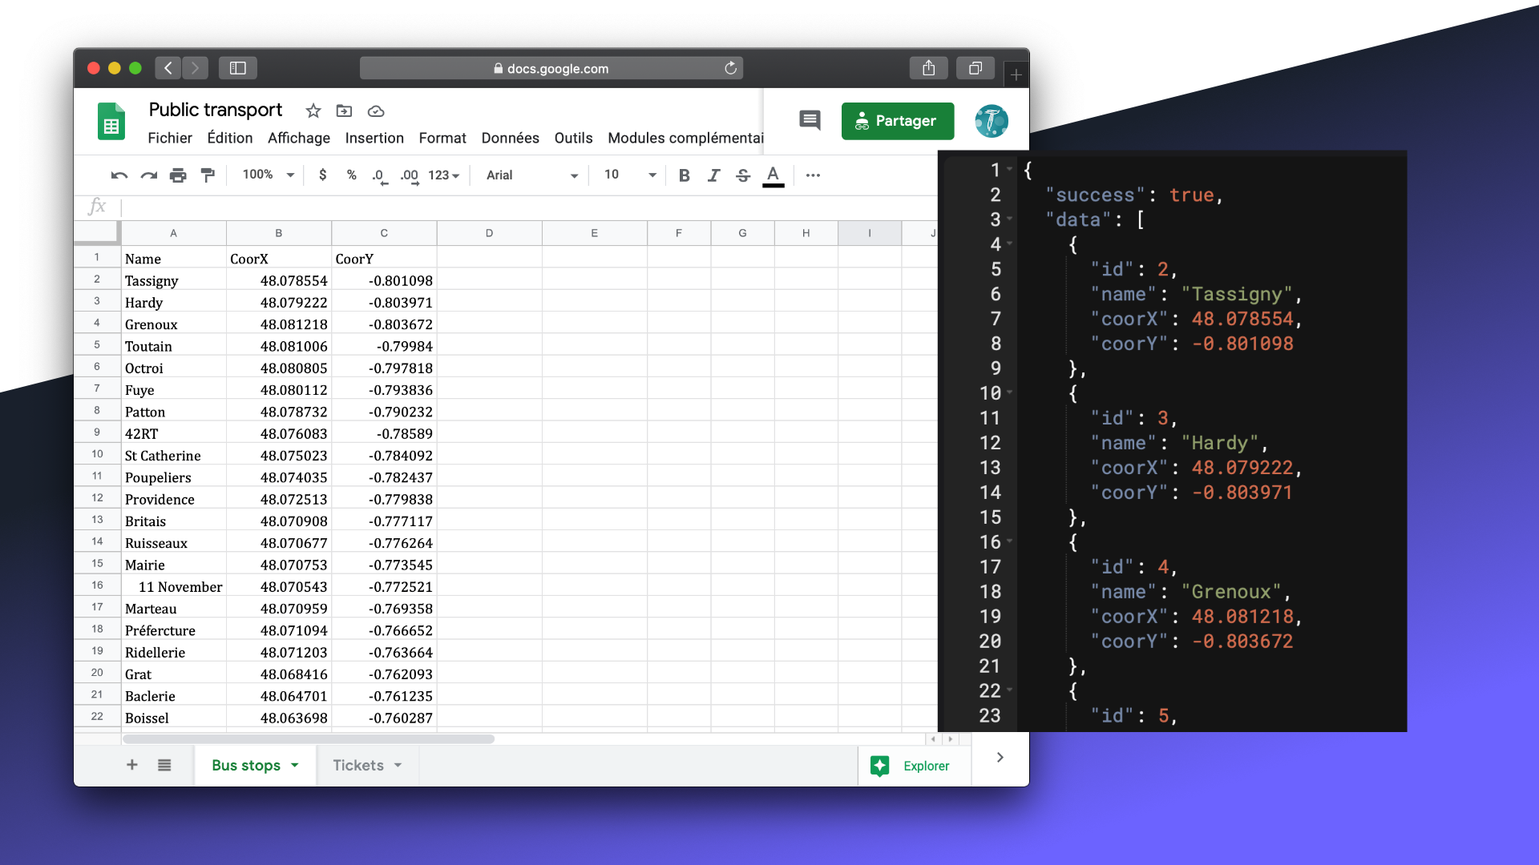
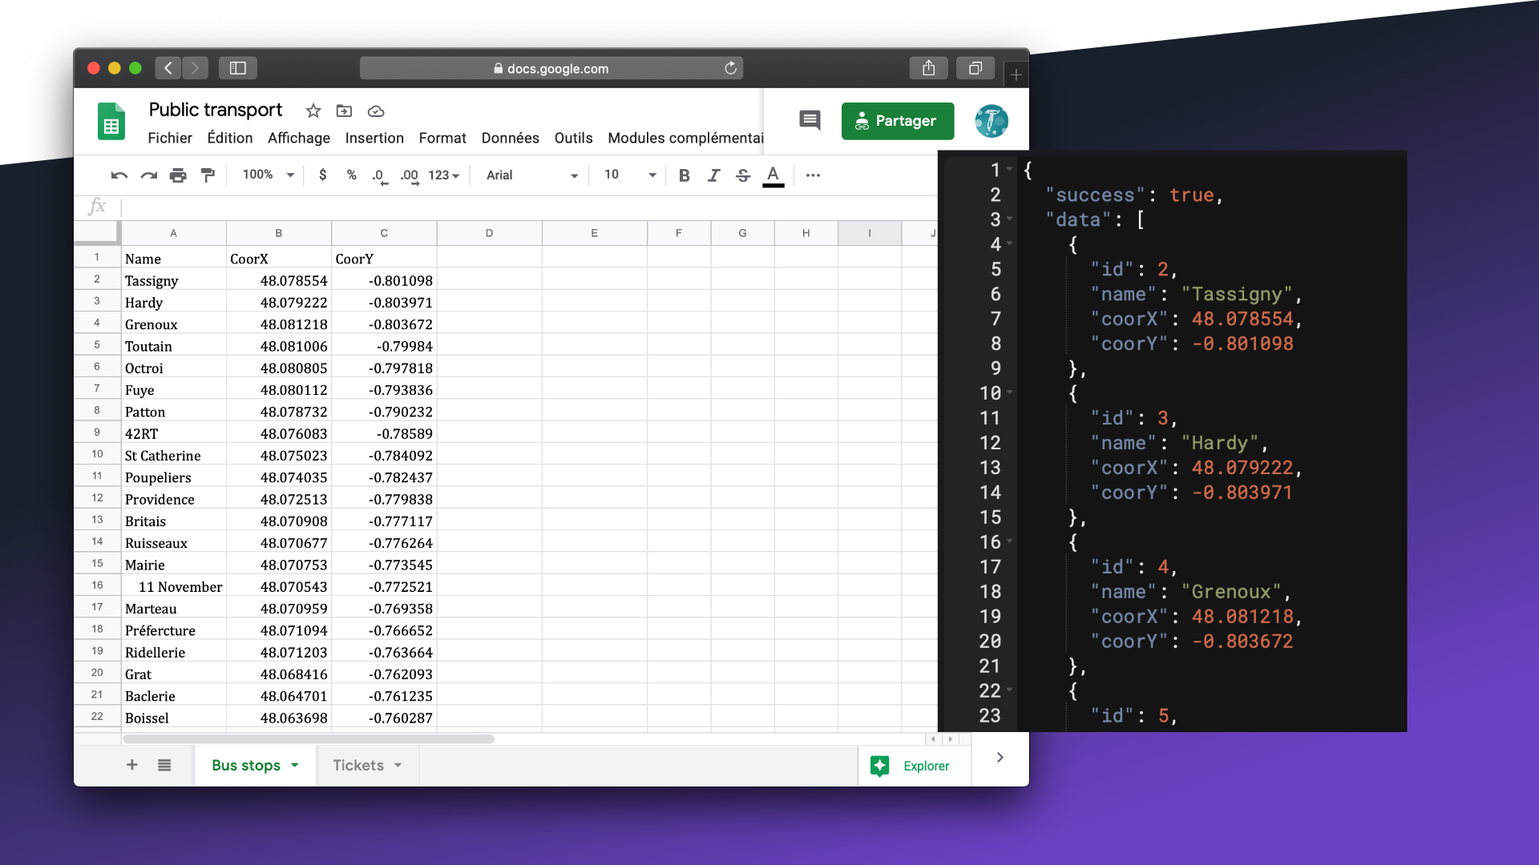
update homepage

Changed region(s): [[0.0, 0.3056, 1.0, 1.0], [0.6562, 0.0, 1.0, 0.1528], [0.0, 0.1833, 0.0625, 0.4583]]

diff --git a/src/public/js/particles.min.js b/src/public/js/particles.min.js
@@ -1,0 +1,9 @@
+/* -----------------------------------------------
+/* Author : Vincent Garreau  - vincentgarreau.com
+/* MIT license: http://opensource.org/licenses/MIT
+/* Demo / Generator : vincentgarreau.com/particles.js
+/* GitHub : github.com/VincentGarreau/particles.js
+/* How to use? : Check the GitHub README
+/* v2.0.0
+/* ----------------------------------------------- */
+function hexToRgb(e){var a=/^#?([a-f\d])([a-f\d])([a-f\d])$/i;e=e.replace(a,function(e,a,t,i){return a+a+t+t+i+i});var t=/^#?([a-f\d]{2})([a-f\d]{2})([a-f\d]{2})$/i.exec(e);return t?{r:parseInt(t[1],16),g:parseInt(t[2],16),b:parseInt(t[3],16)}:null}function clamp(e,a,t){return Math.min(Math.max(e,a),t)}function isInArray(e,a){return a.indexOf(e)>-1}var pJS=function(e,a){var t=document.querySelector("#"+e+" > .particles-js-canvas-el");this.pJS={canvas:{el:t,w:t.offsetWidth,h:t.offsetHeight},particles:{number:{value:400,density:{enable:!0,value_area:800}},color:{value:"#fff"},shape:{type:"circle",stroke:{width:0,color:"#ff0000"},polygon:{nb_sides:5},image:{src:"",width:100,height:100}},opacity:{value:1,random:!1,anim:{enable:!1,speed:2,opacity_min:0,sync:!1}},size:{value:20,random:!1,anim:{enable:!1,speed:20,size_min:0,sync:!1}},line_linked:{enable:!0,distance:100,color:"#fff",opacity:1,width:1},move:{enable:!0,speed:2,direction:"none",random:!1,straight:!1,out_mode:"out",bounce:!1,attract:{enable:!1,rotateX:3e3,rotateY:3e3}},array:[]},interactivity:{detect_on:"canvas",events:{onhover:{enable:!0,mode:"grab"},onclick:{enable:!0,mode:"push"},resize:!0},modes:{grab:{distance:100,line_linked:{opacity:1}},bubble:{distance:200,size:80,duration:.4},repulse:{distance:200,duration:.4},push:{particles_nb:4},remove:{particles_nb:2}},mouse:{}},retina_detect:!1,fn:{interact:{},modes:{},vendors:{}},tmp:{}};var i=this.pJS;a&&Object.deepExtend(i,a),i.tmp.obj={size_value:i.particles.size.value,size_anim_speed:i.particles.size.anim.speed,move_speed:i.particles.move.speed,line_linked_distance:i.particles.line_linked.distance,line_linked_width:i.particles.line_linked.width,mode_grab_distance:i.interactivity.modes.grab.distance,mode_bubble_distance:i.interactivity.modes.bubble.distance,mode_bubble_size:i.interactivity.modes.bubble.size,mode_repulse_distance:i.interactivity.modes.repulse.distance},i.fn.retinaInit=function(){i.retina_detect&&window.devicePixelRatio>1?(i.canvas.pxratio=window.devicePixelRatio,i.tmp.retina=!0):(i.canvas.pxratio=1,i.tmp.retina=!1),i.canvas.w=i.canvas.el.offsetWidth*i.canvas.pxratio,i.canvas.h=i.canvas.el.offsetHeight*i.canvas.pxratio,i.particles.size.value=i.tmp.obj.size_value*i.canvas.pxratio,i.particles.size.anim.speed=i.tmp.obj.size_anim_speed*i.canvas.pxratio,i.particles.move.speed=i.tmp.obj.move_speed*i.canvas.pxratio,i.particles.line_linked.distance=i.tmp.obj.line_linked_distance*i.canvas.pxratio,i.interactivity.modes.grab.distance=i.tmp.obj.mode_grab_distance*i.canvas.pxratio,i.interactivity.modes.bubble.distance=i.tmp.obj.mode_bubble_distance*i.canvas.pxratio,i.particles.line_linked.width=i.tmp.obj.line_linked_width*i.canvas.pxratio,i.interactivity.modes.bubble.size=i.tmp.obj.mode_bubble_size*i.canvas.pxratio,i.interactivity.modes.repulse.distance=i.tmp.obj.mode_repulse_distance*i.canvas.pxratio},i.fn.canvasInit=function(){i.canvas.ctx=i.canvas.el.getContext("2d")},i.fn.canvasSize=function(){i.canvas.el.width=i.canvas.w,i.canvas.el.height=i.canvas.h,i&&i.interactivity.events.resize&&window.addEventListener("resize",function(){i.canvas.w=i.canvas.el.offsetWidth,i.canvas.h=i.canvas.el.offsetHeight,i.tmp.retina&&(i.canvas.w*=i.canvas.pxratio,i.canvas.h*=i.canvas.pxratio),i.canvas.el.width=i.canvas.w,i.canvas.el.height=i.canvas.h,i.particles.move.enable||(i.fn.particlesEmpty(),i.fn.particlesCreate(),i.fn.particlesDraw(),i.fn.vendors.densityAutoParticles()),i.fn.vendors.densityAutoParticles()})},i.fn.canvasPaint=function(){i.canvas.ctx.fillRect(0,0,i.canvas.w,i.canvas.h)},i.fn.canvasClear=function(){i.canvas.ctx.clearRect(0,0,i.canvas.w,i.canvas.h)},i.fn.particle=function(e,a,t){if(this.radius=(i.particles.size.random?Math.random():1)*i.particles.size.value,i.particles.size.anim.enable&&(this.size_status=!1,this.vs=i.particles.size.anim.speed/100,i.particles.size.anim.sync||(this.vs=this.vs*Math.random())),this.x=t?t.x:Math.random()*i.canvas.w,this.y=t?t.y:Math.random()*i.canvas.h,this.x>i.canvas.w-2*this.radius?this.x=this.x-this.radius:this.x<2*this.radius&&(this.x=this.x+this.radius),this.y>i.canvas.h-2*this.radius?this.y=this.y-this.radius:this.y<2*this.radius&&(this.y=this.y+this.radius),i.particles.move.bounce&&i.fn.vendors.checkOverlap(this,t),this.color={},"object"==typeof e.value)if(e.value instanceof Array){var s=e.value[Math.floor(Math.random()*i.particles.color.value.length)];this.color.rgb=hexToRgb(s)}else void 0!=e.value.r&&void 0!=e.value.g&&void 0!=e.value.b&&(this.color.rgb={r:e.value.r,g:e.value.g,b:e.value.b}),void 0!=e.value.h&&void 0!=e.value.s&&void 0!=e.value.l&&(this.color.hsl={h:e.value.h,s:e.value.s,l:e.value.l});else"random"==e.value?this.color.rgb={r:Math.floor(256*Math.random())+0,g:Math.floor(256*Math.random())+0,b:Math.floor(256*Math.random())+0}:"string"==typeof e.value&&(this.color=e,this.color.rgb=hexToRgb(this.color.value));this.opacity=(i.particles.opacity.random?Math.random():1)*i.particles.opacity.value,i.particles.opacity.anim.enable&&(this.opacity_status=!1,this.vo=i.particles.opacity.anim.speed/100,i.particles.opacity.anim.sync||(this.vo=this.vo*Math.random()));var n={};switch(i.particles.move.direction){case"top":n={x:0,y:-1};break;case"top-right":n={x:.5,y:-.5};break;case"right":n={x:1,y:-0};break;case"bottom-right":n={x:.5,y:.5};break;case"bottom":n={x:0,y:1};break;case"bottom-left":n={x:-.5,y:1};break;case"left":n={x:-1,y:0};break;case"top-left":n={x:-.5,y:-.5};break;default:n={x:0,y:0}}i.particles.move.straight?(this.vx=n.x,this.vy=n.y,i.particles.move.random&&(this.vx=this.vx*Math.random(),this.vy=this.vy*Math.random())):(this.vx=n.x+Math.random()-.5,this.vy=n.y+Math.random()-.5),this.vx_i=this.vx,this.vy_i=this.vy;var r=i.particles.shape.type;if("object"==typeof r){if(r instanceof Array){var c=r[Math.floor(Math.random()*r.length)];this.shape=c}}else this.shape=r;if("image"==this.shape){var o=i.particles.shape;this.img={src:o.image.src,ratio:o.image.width/o.image.height},this.img.ratio||(this.img.ratio=1),"svg"==i.tmp.img_type&&void 0!=i.tmp.source_svg&&(i.fn.vendors.createSvgImg(this),i.tmp.pushing&&(this.img.loaded=!1))}},i.fn.particle.prototype.draw=function(){function e(){i.canvas.ctx.drawImage(r,a.x-t,a.y-t,2*t,2*t/a.img.ratio)}var a=this;if(void 0!=a.radius_bubble)var t=a.radius_bubble;else var t=a.radius;if(void 0!=a.opacity_bubble)var s=a.opacity_bubble;else var s=a.opacity;if(a.color.rgb)var n="rgba("+a.color.rgb.r+","+a.color.rgb.g+","+a.color.rgb.b+","+s+")";else var n="hsla("+a.color.hsl.h+","+a.color.hsl.s+"%,"+a.color.hsl.l+"%,"+s+")";switch(i.canvas.ctx.fillStyle=n,i.canvas.ctx.beginPath(),a.shape){case"circle":i.canvas.ctx.arc(a.x,a.y,t,0,2*Math.PI,!1);break;case"edge":i.canvas.ctx.rect(a.x-t,a.y-t,2*t,2*t);break;case"triangle":i.fn.vendors.drawShape(i.canvas.ctx,a.x-t,a.y+t/1.66,2*t,3,2);break;case"polygon":i.fn.vendors.drawShape(i.canvas.ctx,a.x-t/(i.particles.shape.polygon.nb_sides/3.5),a.y-t/.76,2.66*t/(i.particles.shape.polygon.nb_sides/3),i.particles.shape.polygon.nb_sides,1);break;case"star":i.fn.vendors.drawShape(i.canvas.ctx,a.x-2*t/(i.particles.shape.polygon.nb_sides/4),a.y-t/1.52,2*t*2.66/(i.particles.shape.polygon.nb_sides/3),i.particles.shape.polygon.nb_sides,2);break;case"image":if("svg"==i.tmp.img_type)var r=a.img.obj;else var r=i.tmp.img_obj;r&&e()}i.canvas.ctx.closePath(),i.particles.shape.stroke.width>0&&(i.canvas.ctx.strokeStyle=i.particles.shape.stroke.color,i.canvas.ctx.lineWidth=i.particles.shape.stroke.width,i.canvas.ctx.stroke()),i.canvas.ctx.fill()},i.fn.particlesCreate=function(){for(var e=0;e<i.particles.number.value;e++)i.particles.array.push(new i.fn.particle(i.particles.color,i.particles.opacity.value))},i.fn.particlesUpdate=function(){for(var e=0;e<i.particles.array.length;e++){var a=i.particles.array[e];if(i.particles.move.enable){var t=i.particles.move.speed/2;a.x+=a.vx*t,a.y+=a.vy*t}if(i.particles.opacity.anim.enable&&(1==a.opacity_status?(a.opacity>=i.particles.opacity.value&&(a.opacity_status=!1),a.opacity+=a.vo):(a.opacity<=i.particles.opacity.anim.opacity_min&&(a.opacity_status=!0),a.opacity-=a.vo),a.opacity<0&&(a.opacity=0)),i.particles.size.anim.enable&&(1==a.size_status?(a.radius>=i.particles.size.value&&(a.size_status=!1),a.radius+=a.vs):(a.radius<=i.particles.size.anim.size_min&&(a.size_status=!0),a.radius-=a.vs),a.radius<0&&(a.radius=0)),"bounce"==i.particles.move.out_mode)var s={x_left:a.radius,x_right:i.canvas.w,y_top:a.radius,y_bottom:i.canvas.h};else var s={x_left:-a.radius,x_right:i.canvas.w+a.radius,y_top:-a.radius,y_bottom:i.canvas.h+a.radius};switch(a.x-a.radius>i.canvas.w?(a.x=s.x_left,a.y=Math.random()*i.canvas.h):a.x+a.radius<0&&(a.x=s.x_right,a.y=Math.random()*i.canvas.h),a.y-a.radius>i.canvas.h?(a.y=s.y_top,a.x=Math.random()*i.canvas.w):a.y+a.radius<0&&(a.y=s.y_bottom,a.x=Math.random()*i.canvas.w),i.particles.move.out_mode){case"bounce":a.x+a.radius>i.canvas.w?a.vx=-a.vx:a.x-a.radius<0&&(a.vx=-a.vx),a.y+a.radius>i.canvas.h?a.vy=-a.vy:a.y-a.radius<0&&(a.vy=-a.vy)}if(isInArray("grab",i.interactivity.events.onhover.mode)&&i.fn.modes.grabParticle(a),(isInArray("bubble",i.interactivity.events.onhover.mode)||isInArray("bubble",i.interactivity.events.onclick.mode))&&i.fn.modes.bubbleParticle(a),(isInArray("repulse",i.interactivity.events.onhover.mode)||isInArray("repulse",i.interactivity.events.onclick.mode))&&i.fn.modes.repulseParticle(a),i.particles.line_linked.enable||i.particles.move.attract.enable)for(var n=e+1;n<i.particles.array.length;n++){var r=i.particles.array[n];i.particles.line_linked.enable&&i.fn.interact.linkParticles(a,r),i.particles.move.attract.enable&&i.fn.interact.attractParticles(a,r),i.particles.move.bounce&&i.fn.interact.bounceParticles(a,r)}}},i.fn.particlesDraw=function(){i.canvas.ctx.clearRect(0,0,i.canvas.w,i.canvas.h),i.fn.particlesUpdate();for(var e=0;e<i.particles.array.length;e++){var a=i.particles.array[e];a.draw()}},i.fn.particlesEmpty=function(){i.particles.array=[]},i.fn.particlesRefresh=function(){cancelRequestAnimFrame(i.fn.checkAnimFrame),cancelRequestAnimFrame(i.fn.drawAnimFrame),i.tmp.source_svg=void 0,i.tmp.img_obj=void 0,i.tmp.count_svg=0,i.fn.particlesEmpty(),i.fn.canvasClear(),i.fn.vendors.start()},i.fn.interact.linkParticles=function(e,a){var t=e.x-a.x,s=e.y-a.y,n=Math.sqrt(t*t+s*s);if(n<=i.particles.line_linked.distance){var r=i.particles.line_linked.opacity-n/(1/i.particles.line_linked.opacity)/i.particles.line_linked.distance;if(r>0){var c=i.particles.line_linked.color_rgb_line;i.canvas.ctx.strokeStyle="rgba("+c.r+","+c.g+","+c.b+","+r+")",i.canvas.ctx.lineWidth=i.particles.line_linked.width,i.canvas.ctx.beginPath(),i.canvas.ctx.moveTo(e.x,e.y),i.canvas.ctx.lineTo(a.x,a.y),i.canvas.ctx.stroke(),i.canvas.ctx.closePath()}}},i.fn.interact.attractParticles=function(e,a){var t=e.x-a.x,s=e.y-a.y,n=Math.sqrt(t*t+s*s);if(n<=i.particles.line_linked.distance){var r=t/(1e3*i.particles.move.attract.rotateX),c=s/(1e3*i.particles.move.attract.rotateY);e.vx-=r,e.vy-=c,a.vx+=r,a.vy+=c}},i.fn.interact.bounceParticles=function(e,a){var t=e.x-a.x,i=e.y-a.y,s=Math.sqrt(t*t+i*i),n=e.radius+a.radius;n>=s&&(e.vx=-e.vx,e.vy=-e.vy,a.vx=-a.vx,a.vy=-a.vy)},i.fn.modes.pushParticles=function(e,a){i.tmp.pushing=!0;for(var t=0;e>t;t++)i.particles.array.push(new i.fn.particle(i.particles.color,i.particles.opacity.value,{x:a?a.pos_x:Math.random()*i.canvas.w,y:a?a.pos_y:Math.random()*i.canvas.h})),t==e-1&&(i.particles.move.enable||i.fn.particlesDraw(),i.tmp.pushing=!1)},i.fn.modes.removeParticles=function(e){i.particles.array.splice(0,e),i.particles.move.enable||i.fn.particlesDraw()},i.fn.modes.bubbleParticle=function(e){function a(){e.opacity_bubble=e.opacity,e.radius_bubble=e.radius}function t(a,t,s,n,c){if(a!=t)if(i.tmp.bubble_duration_end){if(void 0!=s){var o=n-p*(n-a)/i.interactivity.modes.bubble.duration,l=a-o;d=a+l,"size"==c&&(e.radius_bubble=d),"opacity"==c&&(e.opacity_bubble=d)}}else if(r<=i.interactivity.modes.bubble.distance){if(void 0!=s)var v=s;else var v=n;if(v!=a){var d=n-p*(n-a)/i.interactivity.modes.bubble.duration;"size"==c&&(e.radius_bubble=d),"opacity"==c&&(e.opacity_bubble=d)}}else"size"==c&&(e.radius_bubble=void 0),"opacity"==c&&(e.opacity_bubble=void 0)}if(i.interactivity.events.onhover.enable&&isInArray("bubble",i.interactivity.events.onhover.mode)){var s=e.x-i.interactivity.mouse.pos_x,n=e.y-i.interactivity.mouse.pos_y,r=Math.sqrt(s*s+n*n),c=1-r/i.interactivity.modes.bubble.distance;if(r<=i.interactivity.modes.bubble.distance){if(c>=0&&"mousemove"==i.interactivity.status){if(i.interactivity.modes.bubble.size!=i.particles.size.value)if(i.interactivity.modes.bubble.size>i.particles.size.value){var o=e.radius+i.interactivity.modes.bubble.size*c;o>=0&&(e.radius_bubble=o)}else{var l=e.radius-i.interactivity.modes.bubble.size,o=e.radius-l*c;o>0?e.radius_bubble=o:e.radius_bubble=0}if(i.interactivity.modes.bubble.opacity!=i.particles.opacity.value)if(i.interactivity.modes.bubble.opacity>i.particles.opacity.value){var v=i.interactivity.modes.bubble.opacity*c;v>e.opacity&&v<=i.interactivity.modes.bubble.opacity&&(e.opacity_bubble=v)}else{var v=e.opacity-(i.particles.opacity.value-i.interactivity.modes.bubble.opacity)*c;v<e.opacity&&v>=i.interactivity.modes.bubble.opacity&&(e.opacity_bubble=v)}}}else a();"mouseleave"==i.interactivity.status&&a()}else if(i.interactivity.events.onclick.enable&&isInArray("bubble",i.interactivity.events.onclick.mode)){if(i.tmp.bubble_clicking){var s=e.x-i.interactivity.mouse.click_pos_x,n=e.y-i.interactivity.mouse.click_pos_y,r=Math.sqrt(s*s+n*n),p=((new Date).getTime()-i.interactivity.mouse.click_time)/1e3;p>i.interactivity.modes.bubble.duration&&(i.tmp.bubble_duration_end=!0),p>2*i.interactivity.modes.bubble.duration&&(i.tmp.bubble_clicking=!1,i.tmp.bubble_duration_end=!1)}i.tmp.bubble_clicking&&(t(i.interactivity.modes.bubble.size,i.particles.size.value,e.radius_bubble,e.radius,"size"),t(i.interactivity.modes.bubble.opacity,i.particles.opacity.value,e.opacity_bubble,e.opacity,"opacity"))}},i.fn.modes.repulseParticle=function(e){function a(){var a=Math.atan2(d,p);if(e.vx=u*Math.cos(a),e.vy=u*Math.sin(a),"bounce"==i.particles.move.out_mode){var t={x:e.x+e.vx,y:e.y+e.vy};t.x+e.radius>i.canvas.w?e.vx=-e.vx:t.x-e.radius<0&&(e.vx=-e.vx),t.y+e.radius>i.canvas.h?e.vy=-e.vy:t.y-e.radius<0&&(e.vy=-e.vy)}}if(i.interactivity.events.onhover.enable&&isInArray("repulse",i.interactivity.events.onhover.mode)&&"mousemove"==i.interactivity.status){var t=e.x-i.interactivity.mouse.pos_x,s=e.y-i.interactivity.mouse.pos_y,n=Math.sqrt(t*t+s*s),r={x:t/n,y:s/n},c=i.interactivity.modes.repulse.distance,o=100,l=clamp(1/c*(-1*Math.pow(n/c,2)+1)*c*o,0,50),v={x:e.x+r.x*l,y:e.y+r.y*l};"bounce"==i.particles.move.out_mode?(v.x-e.radius>0&&v.x+e.radius<i.canvas.w&&(e.x=v.x),v.y-e.radius>0&&v.y+e.radius<i.canvas.h&&(e.y=v.y)):(e.x=v.x,e.y=v.y)}else if(i.interactivity.events.onclick.enable&&isInArray("repulse",i.interactivity.events.onclick.mode))if(i.tmp.repulse_finish||(i.tmp.repulse_count++,i.tmp.repulse_count==i.particles.array.length&&(i.tmp.repulse_finish=!0)),i.tmp.repulse_clicking){var c=Math.pow(i.interactivity.modes.repulse.distance/6,3),p=i.interactivity.mouse.click_pos_x-e.x,d=i.interactivity.mouse.click_pos_y-e.y,m=p*p+d*d,u=-c/m*1;c>=m&&a()}else 0==i.tmp.repulse_clicking&&(e.vx=e.vx_i,e.vy=e.vy_i)},i.fn.modes.grabParticle=function(e){if(i.interactivity.events.onhover.enable&&"mousemove"==i.interactivity.status){var a=e.x-i.interactivity.mouse.pos_x,t=e.y-i.interactivity.mouse.pos_y,s=Math.sqrt(a*a+t*t);if(s<=i.interactivity.modes.grab.distance){var n=i.interactivity.modes.grab.line_linked.opacity-s/(1/i.interactivity.modes.grab.line_linked.opacity)/i.interactivity.modes.grab.distance;if(n>0){var r=i.particles.line_linked.color_rgb_line;i.canvas.ctx.strokeStyle="rgba("+r.r+","+r.g+","+r.b+","+n+")",i.canvas.ctx.lineWidth=i.particles.line_linked.width,i.canvas.ctx.beginPath(),i.canvas.ctx.moveTo(e.x,e.y),i.canvas.ctx.lineTo(i.interactivity.mouse.pos_x,i.interactivity.mouse.pos_y),i.canvas.ctx.stroke(),i.canvas.ctx.closePath()}}}},i.fn.vendors.eventsListeners=function(){"window"==i.interactivity.detect_on?i.interactivity.el=window:i.interactivity.el=i.canvas.el,(i.interactivity.events.onhover.enable||i.interactivity.events.onclick.enable)&&(i.interactivity.el.addEventListener("mousemove",function(e){if(i.interactivity.el==window)var a=e.clientX,t=e.clientY;else var a=e.offsetX||e.clientX,t=e.offsetY||e.clientY;i.interactivity.mouse.pos_x=a,i.interactivity.mouse.pos_y=t,i.tmp.retina&&(i.interactivity.mouse.pos_x*=i.canvas.pxratio,i.interactivity.mouse.pos_y*=i.canvas.pxratio),i.interactivity.status="mousemove"}),i.interactivity.el.addEventListener("mouseleave",function(e){i.interactivity.mouse.pos_x=null,i.interactivity.mouse.pos_y=null,i.interactivity.status="mouseleave"})),i.interactivity.events.onclick.enable&&i.interactivity.el.addEventListener("click",function(){if(i.interactivity.mouse.click_pos_x=i.interactivity.mouse.pos_x,i.interactivity.mouse.click_pos_y=i.interactivity.mouse.pos_y,i.interactivity.mouse.click_time=(new Date).getTime(),i.interactivity.events.onclick.enable)switch(i.interactivity.events.onclick.mode){case"push":i.particles.move.enable?i.fn.modes.pushParticles(i.interactivity.modes.push.particles_nb,i.interactivity.mouse):1==i.interactivity.modes.push.particles_nb?i.fn.modes.pushParticles(i.interactivity.modes.push.particles_nb,i.interactivity.mouse):i.interactivity.modes.push.particles_nb>1&&i.fn.modes.pushParticles(i.interactivity.modes.push.particles_nb);break;case"remove":i.fn.modes.removeParticles(i.interactivity.modes.remove.particles_nb);break;case"bubble":i.tmp.bubble_clicking=!0;break;case"repulse":i.tmp.repulse_clicking=!0,i.tmp.repulse_count=0,i.tmp.repulse_finish=!1,setTimeout(function(){i.tmp.repulse_clicking=!1},1e3*i.interactivity.modes.repulse.duration)}})},i.fn.vendors.densityAutoParticles=function(){if(i.particles.number.density.enable){var e=i.canvas.el.width*i.canvas.el.height/1e3;i.tmp.retina&&(e/=2*i.canvas.pxratio);var a=e*i.particles.number.value/i.particles.number.density.value_area,t=i.particles.array.length-a;0>t?i.fn.modes.pushParticles(Math.abs(t)):i.fn.modes.removeParticles(t)}},i.fn.vendors.checkOverlap=function(e,a){for(var t=0;t<i.particles.array.length;t++){var s=i.particles.array[t],n=e.x-s.x,r=e.y-s.y,c=Math.sqrt(n*n+r*r);c<=e.radius+s.radius&&(e.x=a?a.x:Math.random()*i.canvas.w,e.y=a?a.y:Math.random()*i.canvas.h,i.fn.vendors.checkOverlap(e))}},i.fn.vendors.createSvgImg=function(e){var a=i.tmp.source_svg,t=/#([0-9A-F]{3,6})/gi,s=a.replace(t,function(a,t,i,s){if(e.color.rgb)var n="rgba("+e.color.rgb.r+","+e.color.rgb.g+","+e.color.rgb.b+","+e.opacity+")";else var n="hsla("+e.color.hsl.h+","+e.color.hsl.s+"%,"+e.color.hsl.l+"%,"+e.opacity+")";return n}),n=new Blob([s],{type:"image/svg+xml;charset=utf-8"}),r=window.URL||window.webkitURL||window,c=r.createObjectURL(n),o=new Image;o.addEventListener("load",function(){e.img.obj=o,e.img.loaded=!0,r.revokeObjectURL(c),i.tmp.count_svg++}),o.src=c},i.fn.vendors.destroypJS=function(){cancelAnimationFrame(i.fn.drawAnimFrame),t.remove(),pJSDom=null},i.fn.vendors.drawShape=function(e,a,t,i,s,n){var r=s*n,c=s/n,o=180*(c-2)/c,l=Math.PI-Math.PI*o/180;e.save(),e.beginPath(),e.translate(a,t),e.moveTo(0,0);for(var v=0;r>v;v++)e.lineTo(i,0),e.translate(i,0),e.rotate(l);e.fill(),e.restore()},i.fn.vendors.exportImg=function(){window.open(i.canvas.el.toDataURL("image/png"),"_blank")},i.fn.vendors.loadImg=function(e){if(i.tmp.img_error=void 0,""!=i.particles.shape.image.src)if("svg"==e){var a=new XMLHttpRequest;a.open("GET",i.particles.shape.image.src),a.onreadystatechange=function(e){4==a.readyState&&(200==a.status?(i.tmp.source_svg=e.currentTarget.response,i.fn.vendors.checkBeforeDraw()):(console.log("Error pJS - Image not found"),i.tmp.img_error=!0))},a.send()}else{var t=new Image;t.addEventListener("load",function(){i.tmp.img_obj=t,i.fn.vendors.checkBeforeDraw()}),t.src=i.particles.shape.image.src}else console.log("Error pJS - No image.src"),i.tmp.img_error=!0},i.fn.vendors.draw=function(){"image"==i.particles.shape.type?"svg"==i.tmp.img_type?i.tmp.count_svg>=i.particles.number.value?(i.fn.particlesDraw(),i.particles.move.enable?i.fn.drawAnimFrame=requestAnimFrame(i.fn.vendors.draw):cancelRequestAnimFrame(i.fn.drawAnimFrame)):i.tmp.img_error||(i.fn.drawAnimFrame=requestAnimFrame(i.fn.vendors.draw)):void 0!=i.tmp.img_obj?(i.fn.particlesDraw(),i.particles.move.enable?i.fn.drawAnimFrame=requestAnimFrame(i.fn.vendors.draw):cancelRequestAnimFrame(i.fn.drawAnimFrame)):i.tmp.img_error||(i.fn.drawAnimFrame=requestAnimFrame(i.fn.vendors.draw)):(i.fn.particlesDraw(),i.particles.move.enable?i.fn.drawAnimFrame=requestAnimFrame(i.fn.vendors.draw):cancelRequestAnimFrame(i.fn.drawAnimFrame))},i.fn.vendors.checkBeforeDraw=function(){"image"==i.particles.shape.type?"svg"==i.tmp.img_type&&void 0==i.tmp.source_svg?i.tmp.checkAnimFrame=requestAnimFrame(check):(cancelRequestAnimFrame(i.tmp.checkAnimFrame),i.tmp.img_error||(i.fn.vendors.init(),i.fn.vendors.draw())):(i.fn.vendors.init(),i.fn.vendors.draw())},i.fn.vendors.init=function(){i.fn.retinaInit(),i.fn.canvasInit(),i.fn.canvasSize(),i.fn.canvasPaint(),i.fn.particlesCreate(),i.fn.vendors.densityAutoParticles(),i.particles.line_linked.color_rgb_line=hexToRgb(i.particles.line_linked.color)},i.fn.vendors.start=function(){isInArray("image",i.particles.shape.type)?(i.tmp.img_type=i.particles.shape.image.src.substr(i.particles.shape.image.src.length-3),i.fn.vendors.loadImg(i.tmp.img_type)):i.fn.vendors.checkBeforeDraw()},i.fn.vendors.eventsListeners(),i.fn.vendors.start()};Object.deepExtend=function(e,a){for(var t in a)a[t]&&a[t].constructor&&a[t].constructor===Object?(e[t]=e[t]||{},arguments.callee(e[t],a[t])):e[t]=a[t];return e},window.requestAnimFrame=function(){return window.requestAnimationFrame||window.webkitRequestAnimationFrame||window.mozRequestAnimationFrame||window.oRequestAnimationFrame||window.msRequestAnimationFrame||function(e){window.setTimeout(e,1e3/60)}}(),window.cancelRequestAnimFrame=function(){return window.cancelAnimationFrame||window.webkitCancelRequestAnimationFrame||window.mozCancelRequestAnimationFrame||window.oCancelRequestAnimationFrame||window.msCancelRequestAnimationFrame||clearTimeout}(),window.pJSDom=[],window.particlesJS=function(e,a){"string"!=typeof e&&(a=e,e="particles-js"),e||(e="particles-js");var t=document.getElementById(e),i="particles-js-canvas-el",s=t.getElementsByClassName(i);if(s.length)for(;s.length>0;)t.removeChild(s[0]);var n=document.createElement("canvas");n.className=i,n.style.width="100%",n.style.height="100%";var r=document.getElementById(e).appendChild(n);null!=r&&pJSDom.push(new pJS(e,a))},window.particlesJS.load=function(e,a,t){var i=new XMLHttpRequest;i.open("GET",a),i.onreadystatechange=function(a){if(4==i.readyState)if(200==i.status){var s=JSON.parse(a.currentTarget.response);window.particlesJS(e,s),t&&t()}else console.log("Error pJS - XMLHttpRequest status: "+i.status),console.log("Error pJS - File config not found")},i.send()};

diff --git a/src/public/js/home.js b/src/public/js/home.js
@@ -1,0 +1,87 @@
+document.addEventListener("DOMContentLoaded", function () {
+  particlesJS(
+    "particles-js",
+
+    {
+      particles: {
+        number: {
+          value: 30,
+          density: {
+            enable: true,
+            value_area: 800,
+          },
+        },
+        color: {
+          value: "#ffffff",
+        },
+        shape: {
+          type: "star",
+        },
+        opacity: {
+          value: 0.3,
+          random: false,
+          anim: {
+            enable: false,
+            speed: 1,
+            opacity_min: 0.1,
+            sync: false,
+          },
+        },
+        size: {
+          value: 4,
+          random: true,
+          anim: {
+            enable: false,
+            speed: 20,
+            size_min: 0.1,
+            sync: false,
+          },
+        },
+        line_linked: {
+          enable: true,
+          distance: 150,
+          color: "#ffffff",
+          opacity: 0.4,
+          width: 1,
+        },
+        move: {
+          enable: true,
+          speed: 6,
+          direction: "none",
+          random: false,
+          straight: false,
+          out_mode: "out",
+          attract: {
+            enable: false,
+            rotateX: 600,
+            rotateY: 1200,
+          },
+        },
+      },
+      interactivity: {
+        detect_on: "canvas",
+        events: {
+          onhover: {
+            enable: false,
+            mode: "repulse",
+          },
+          onclick: {
+            enable: false,
+            mode: "push",
+          },
+          resize: true,
+        },
+        modes: {},
+      },
+      retina_detect: true,
+      config_demo: {
+        hide_card: false,
+        background_color: "#b61924",
+        background_image: "",
+        background_position: "50% 50%",
+        background_repeat: "no-repeat",
+        background_size: "cover",
+      },
+    }
+  );
+});

diff --git a/src/public/css/styles.css b/src/public/css/styles.css
@@ -19185,6 +19185,13 @@ video {
   transition-delay: 1000ms;
 }
 
+#particles-js {
+  position: absolute;
+  left: 0;
+  top: 0;
+  z-index: -1;
+}
+
 @media (min-width: 640px) {
   .sm\:container {
     width: 100%;

diff --git a/src/tailwind.css b/src/tailwind.css
@@ -38,3 +38,10 @@
 }
 
 @tailwind utilities;
+
+#particles-js {
+  position: absolute;
+  left: 0;
+  top: 0;
+  z-index: -1;
+}
